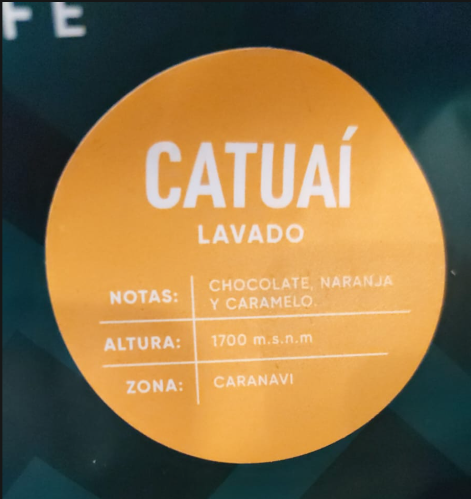
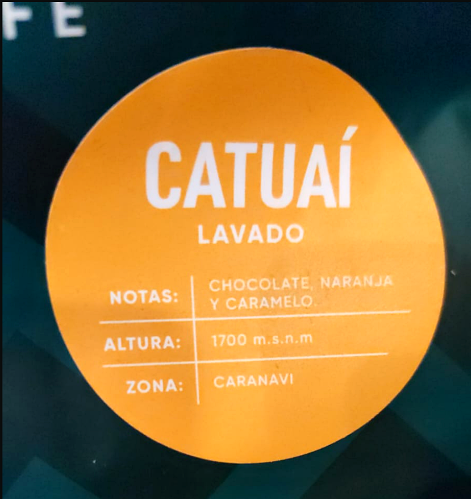
feat(coffee): procesar y mejorar fotos de Cafe 4 Llamas con IA, empaque gourmet Caranavi y doble vista

diff --git a/src/app/menu-pdf/page.tsx b/src/app/menu-pdf/page.tsx
@@ -596,8 +596,10 @@ export default function MenuPdfPage() {
                   <div
                     onClick={() => setFotoModal({
                       url: "/img/products/espresso_4_llamas.jpg",
-                      titulo: "Café Expresso 4 Llamas",
-                      desc: "Extracción pura de 30cc con granos bolivianos 4 Llamas de Caranavi. Crema color avellana atigrada.",
+                      originalUrl: "/img/products/espresso_4_llamas.jpg",
+                      corteUrl: "/img/products/cafe_4llamas_pack_gourmet.jpg",
+                      titulo: "Café Expresso 4 Llamas de Especialidad",
+                      desc: "Extracción pura de 30cc con granos bolivianos 4 Llamas de Caranavi (1,700 msnm). Crema color avellana atigrada.",
                       precio: 15
                     })}
                     className="flex flex-col items-center text-center cursor-pointer group"
@@ -767,6 +769,8 @@ export default function MenuPdfPage() {
                       <div
                         onClick={() => setFotoModal({
                           url: "/img/products/espresso_4_llamas.jpg",
+                          originalUrl: "/img/products/espresso_4_llamas.jpg",
+                          corteUrl: "/img/products/cafe_4llamas_pack_gourmet.jpg",
                           titulo: "Expresso 4 Llamas (30cc)",
                           desc: "Extracción pura de 30cc con granos bolivianos 4 Llamas de Caranavi. Crema color avellana atigrada.",
                           precio: 15

diff --git a/src/app/page.tsx b/src/app/page.tsx
@@ -304,7 +304,7 @@ export default function HomePage() {
       return "https://images.unsplash.com/photo-1586444248902-2f64eddc13df?auto=format&fit=crop&w=1000&q=85";
     }
     if (n.includes("café") || n.includes("cappuccino") || n.includes("espresso") || n.includes("latte")) {
-      return "https://images.unsplash.com/photo-1514432324607-a09d9b4aefdd?auto=format&fit=crop&w=1000&q=85";
+      return "/img/products/cafe_4llamas_pack_gourmet.jpg";
     }
     if (n.includes("pizza") || n.includes("esfiha") || n.includes("empanada")) {
       return "https://images.unsplash.com/photo-1565299624946-b28f40a0ae38?auto=format&fit=crop&w=1000&q=85";
@@ -2681,11 +2681,11 @@ export default function HomePage() {
                   </div>
                 </div>
 
-                <div className="w-20 h-24 rounded-2xl overflow-hidden border border-white/20 shadow-lg">
+                <div className="w-28 h-28 rounded-2xl overflow-hidden border-2 border-amber-500/40 shadow-xl group">
                   <img
-                    src="/img/brand/cafe-4llamas-pack.png"
-                    alt="Bolsa 4 Llamas"
-                    className="w-full h-full object-cover"
+                    src="/img/products/cafe_4llamas_pack_gourmet.jpg"
+                    alt="Café 4 Llamas Empaque Gourmet"
+                    className="w-full h-full object-cover group-hover:scale-105 transition-transform duration-300"
                   />
                 </div>
               </div>

diff --git a/src/lib/seed-data.ts b/src/lib/seed-data.ts
@@ -382,6 +382,7 @@ export const SEED_PRODUCTOS: Producto[] = [
     "precio": 15,
     "costo": 4.5,
     "imagen_url": "/img/products/espresso_4_llamas.jpg",
+    "imagen_interior_url": "/img/products/cafe_4llamas_pack_gourmet.jpg",
     "disponible": true,
     "es_mas_vendido": true,
     "stock": 100,

diff --git a/src/store/index.ts b/src/store/index.ts
@@ -771,7 +771,7 @@ export const useSystemStore = create<SystemStore>()(
         }),
     }),
     {
-      name: 'dencker-pan-system-v5-postres',
+      name: 'dencker-pan-system-v6-coffee-update',
     }
   )
 );
